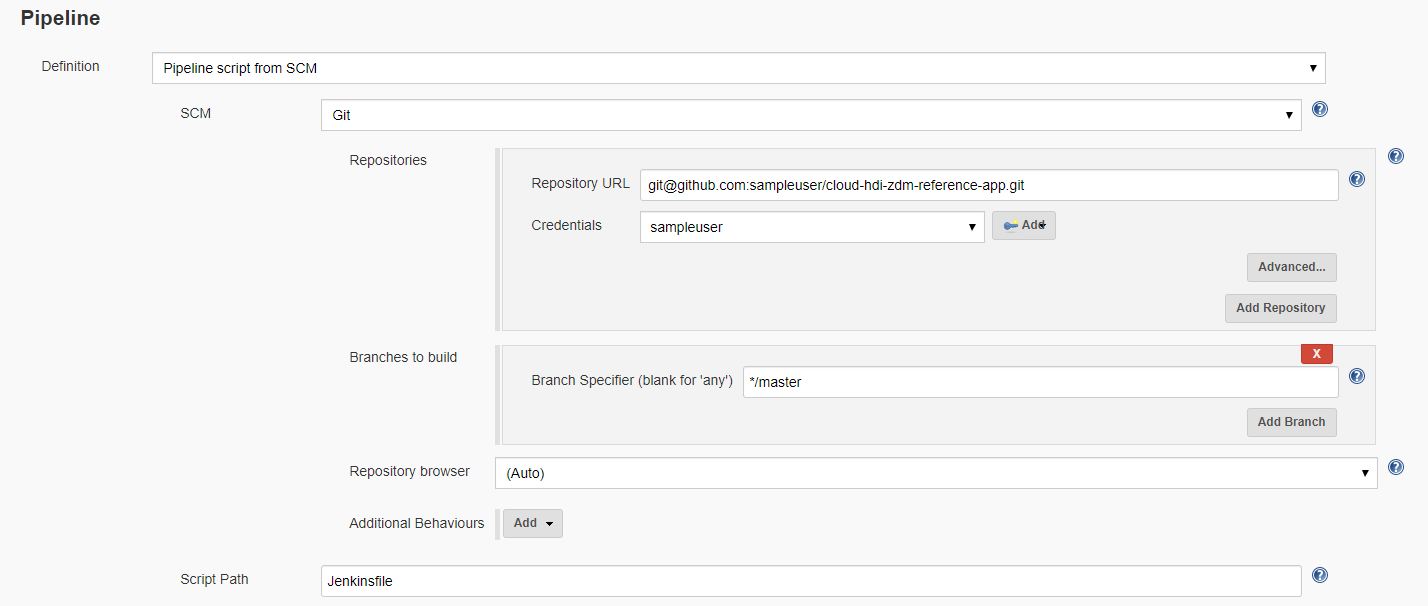
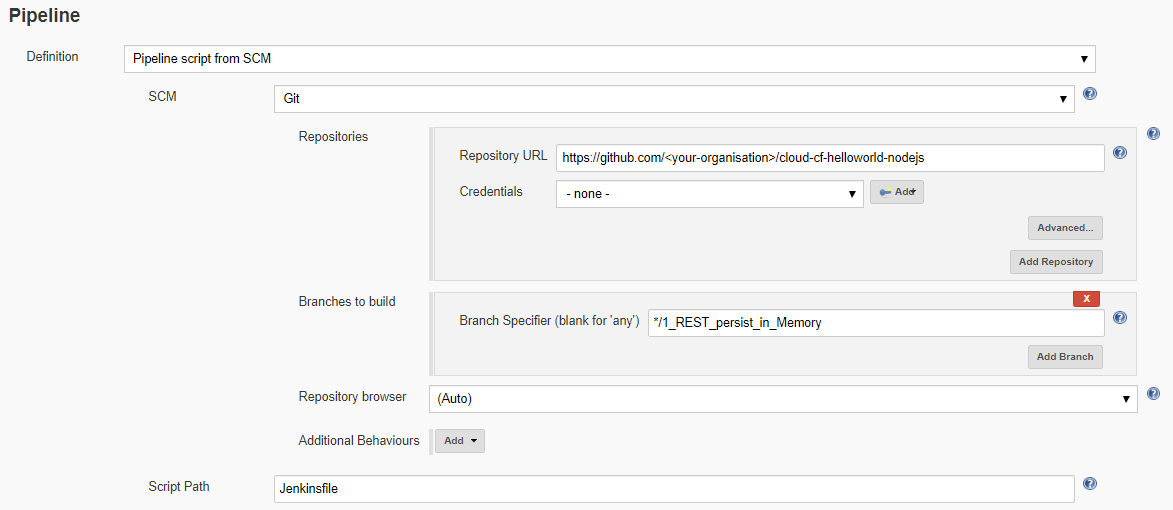
review documentation

diff --git a/documentation/docs/guidedtour.md b/documentation/docs/guidedtour.md
@@ -1,19 +1,20 @@
 # Getting Started with the Guided Tour
 
-##Prerequisites
+## Prerequisites
 
 * Linux - A Linux System with at least 4GB memory. All our samples were tested on Ubuntu 16.04. On Microsoft Windows you might face issues.
 * Docker - All tests were made on Docker 18.09.6. Install the newest version from [docker.com](https://docs.docker.com/install/)
 * Jenkins - Jenkins version 2.60.3 or higher. We recommend to use the CX-Server toolkit.  
 * Access to [github.com][github] - The piper library will be downloaded from [github.com].
 * Git Repository - The pipeline you are going to setup will process sources from a Git repository you have to specify. 
+* SAP Cloud Platform Space - Get access to SAP Cloud Platform Cloud Foundry. If you haven't an account yet, request a SAP CP CF Trial account. After login an organization and space are targeted. The application will be deployed in this organization and space.
 
-##Jenkins
+## Jenkins
 
 We offer the life-cycle management toolkit around Jenkins named `cx-server` to ease its usage and configuration. Based on docker images, you will get a preconfigured Jenkins and a Nexus based cache. 
 Optionally, you can still use your [own Jenkins installation][guidedtour-my-own-jenkins].
 
-###Jenkins by CX-Server
+### Jenkins by CX-Server
 
 The `cx-server` is a toolkit that is developed to manage the lifecycle of the Jenkins server.
 In order to use the toolkit, get the script `cx-server` and its configuration file `server.cfg` by the docker command
@@ -70,7 +71,7 @@ If you would like to customize the Jenkins, [the operations guide](https://githu
    Scroll to the Pipeline options and choose `Pipeline script from SCM`. Choose `Git` as SCM and edit the URL of your Git repository, like `https://github.com/<your-org>/cloud-cf-helloworld-nodejs`. `Save` the changes. 
 
    <p align="center">
-   ![Create Pipeline Job](../images/JenkinsNewItemPipeline-1.png "Jenkins New Item")
+   ![Create Pipeline Job](../images/JenkinsNewItemPipeline-2.png "Jenkins New Item")
    </p>  
    
    If your repository is protected you may have to provide credentials.
@@ -123,8 +124,8 @@ For additional information about the configuration refer to the [common configur
       deployTool: 'mtaDeployPlugin'
       deployType: 'standard'
       cloudFoundry:
-        org: 'D046169trial_trial'
-        space: 'dev'
+        org: '<your-organisation>'
+        space: '<your-space>'
         credentialsId: 'CF_CREDENTIALSID'
    ```
 
@@ -134,6 +135,15 @@ For additional information about the configuration refer to the [common configur
 
 1. Run your Pipeline. From the Job UI click `Build Now`.
 
+## Check  
+SAP CP CF Space
+Login into SCP
+Navigate to space
+Check application status
+Call Application
+
+## Summary
+you learned
 
 [guidedtour-my-own-jenkins]:         myownjenkins.md
 [resources-configuration]:           configuration.md
